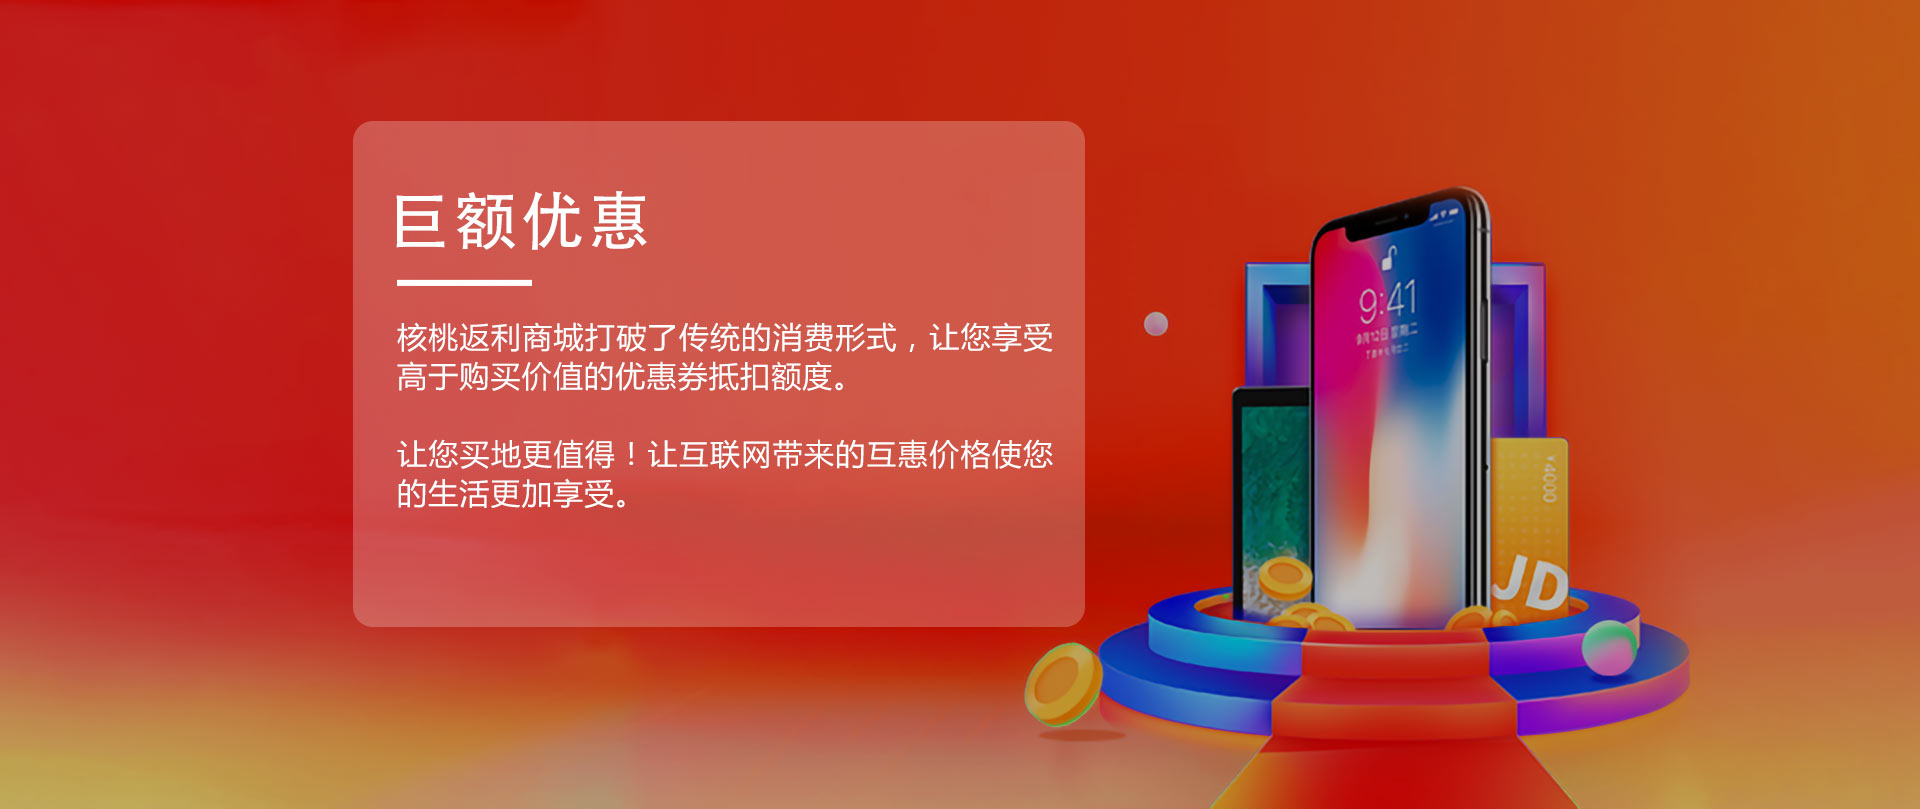
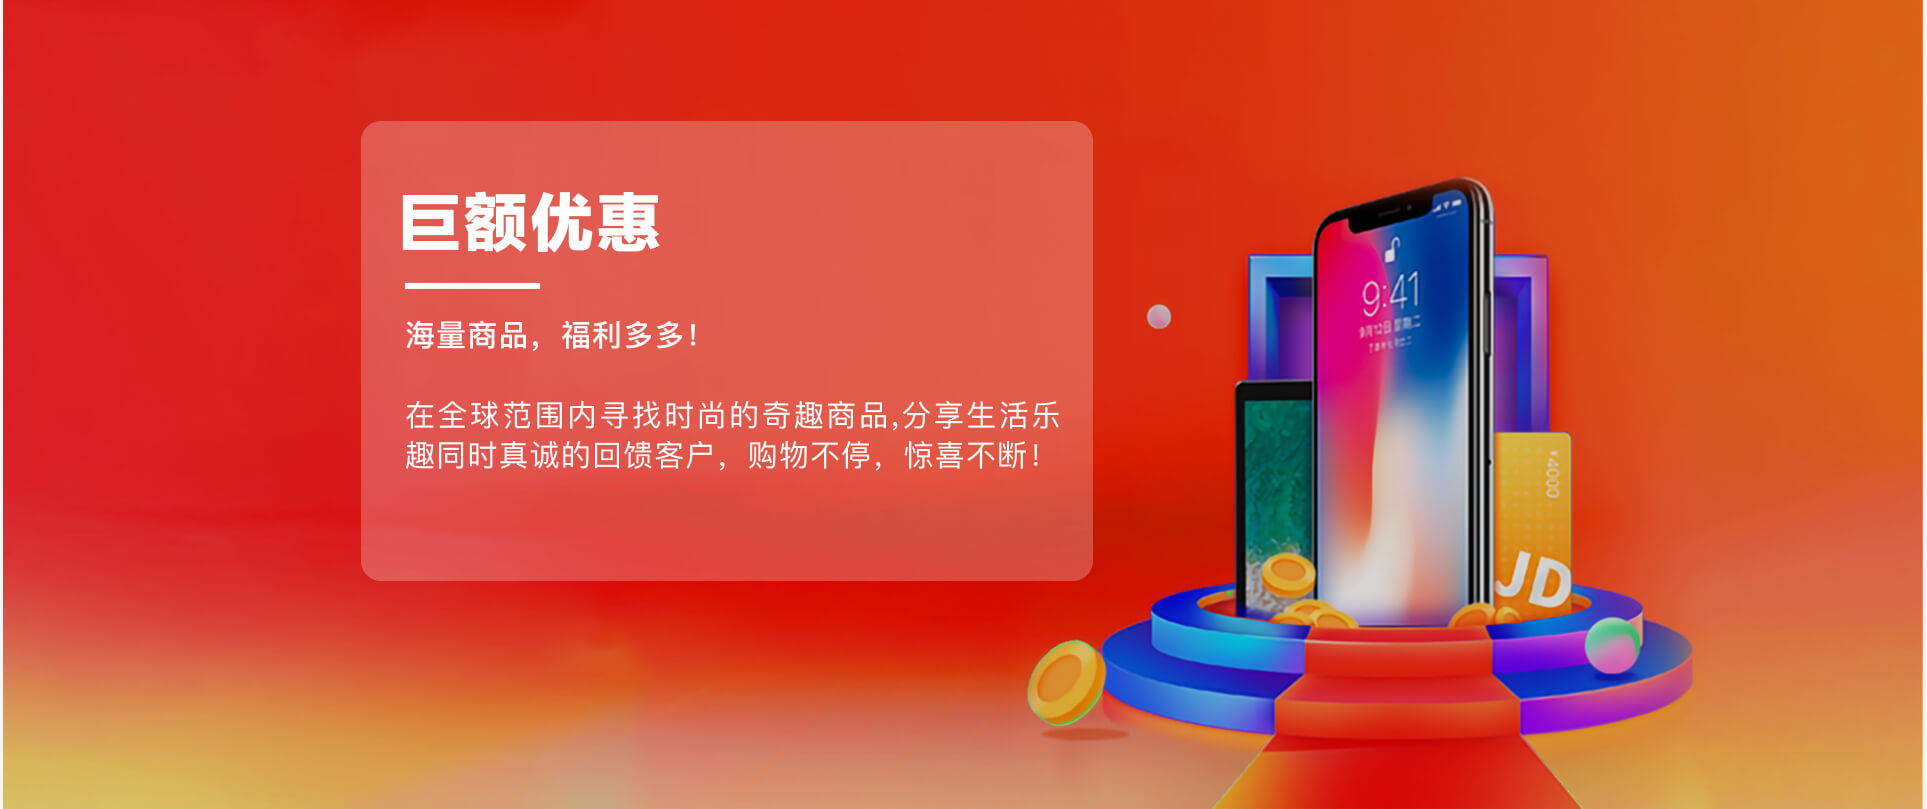
fix：代码提交

diff --git a/src/index/App.vue b/src/index/App.vue
@@ -4,7 +4,7 @@
       <div class="header-box clearfix">
         <div class="fleft header-box-left" @click="jumpClick(1)">
           <div class="img fleft"><img src="../assets/img/index/logo.png" alt=""></div>
-          <div class="app-name fleft">核桃返利</div>
+          <div class="app-name fleft">贝福优选</div>
         </div>
         <div class="fright header-box-right">
           <div class="fleft download positionR">
@@ -17,7 +17,7 @@
       <div class="header-box clearfix">
         <div class="fleft header-box-left">
           <div class="img fleft"><img src="../assets/img/index/logo.png" alt=""></div>
-          <div class="app-name fleft">核桃返利</div>
+          <div class="app-name fleft">贝福优选</div>
         </div>
         <div class="fright header-box-right">
           <div class="fleft download" @mouseenter="mouseover" @mouseleave="mouseLeave" @click="goTop">
@@ -25,51 +25,48 @@
             <img class="ewmcode positionA" ref="ewmcode" style="display:none;" src="../assets/img/ewmcode.png" alt="">
           </div>
           <div class="fleft about">
-            购物返利·一站式商城·全场包邮
+            贝福优选·品文玩赠好礼
           </div>
         </div>
       </div>
     </div>
     <div class="content w">
-      <div class="content1">
-        <img src="../assets/img/index/index1_bg1.jpg" alt="">
-      </div>
+
       <div class="content3">
         <div class="swiper-container">
             <div class="swiper-wrapper">
                 <div class="swiper-slide">
-                  <img src="../assets/img/index/swiper1.jpg" alt="">
+                  <img src="../assets/img/index/swiper1.png" alt="">
                 </div>
                 <div class="swiper-slide">
-                  <img src="../assets/img/index/swiper2.jpg" alt="">
+                  <img src="../assets/img/index/swiper2.png" alt="">
                 </div>
                  <div class="swiper-slide">
-                  <img src="../assets/img/index/swiper3.jpg" alt="">
+                  <img src="../assets/img/index/swiper3.png" alt="">
                 </div>
-                 <div class="swiper-slide">
-                  <img src="../assets/img/index/swiper4.jpg" alt="">
-                </div>
-                 <div class="swiper-slide">
-                  <img src="../assets/img/index/swiper5.jpg" alt="">
-                </div>
+
             </div>
             <div class="swiper-pagination"></div>
         </div>
       </div>
+      <div class="content1">
+        <img src="../assets/img/index/index1_bg1.jpg" alt="">
+      </div>
       <div class="content7">
         <img src="../assets/img/index/content7.jpg" alt="">
       </div>
+
       <div class="content9">
         <div class="content9_cont">
           <div class="content9_cont_left">
             <div class="content9_cont_left_txt1">
-              公司：郴州市昌瑞贸易有限公司
+              公司：惠州冉旭科技有限公司
             </div>
             <div class="content9_cont_left_txt2">
-              地址：湖南省郴州市嘉禾县珠泉镇中伟神农步行街4栋2单元501室
+              地址：惠州市惠城区河南岸螺子湖南街公园1号物联网孵化基地4楼Hec735
             </div>
             <div class="content9_cont_left_txt3">
-              邮箱：q13396009274@163.com
+              邮箱：bfyxkf@126.com
             </div>
           </div>
           <div class="content9_cont_right">
@@ -80,7 +77,7 @@
                客服工作时间
             </div>
             <div class="content9_cont_right_txt3">
-               工作日：9：00-22：00
+               工作日：9：00-21：00
             </div>
             <div class="content9_cont_right_txt4">
                周末及节假日：9：00-21：00
@@ -91,8 +88,8 @@
     </div>
     <div class="footer">
       <div class="footer_cont">
-        <a href="http://beian.miit.gov.cn/?spm=a2c4g.11186623.7y9jhqsfz.111.26b47243MaN2zM" target="_blank" data-spm-anchor-id="a2c4g.11186623.7y9jhqsfz.111">湘ICP备2021004451号</a>
-              http://www.shuishakeji.com/ @ 2021 核桃返利版权所有
+        <a href="http://beian.miit.gov.cn/?spm=a2c4g.11186623.7y9jhqsfz.111.26b47243MaN2zM" target="_blank" data-spm-anchor-id="a2c4g.11186623.7y9jhqsfz.111">粤ICP备2021121729号</a>
+              http://www.walnutsgame.com @ 2021 贝福优选所有
       </div>
     </div>
   </div>

diff --git a/src/index/index.html b/src/index/index.html
@@ -6,7 +6,7 @@
   <meta http-equiv="X-UA-Compatible" content="IE=edge">
   <meta name="viewport" content="width=device-width,initial-scale=1.0">
   <link rel="icon" href="/static/favicon.ico">
-  <title>核桃返利</title>
+  <title>贝福优选</title>
 </head>
 
 <body>
